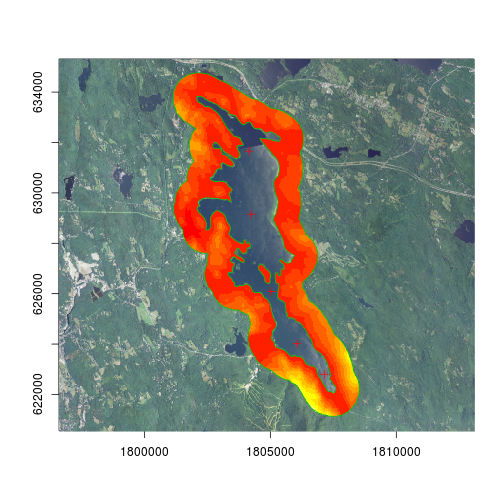
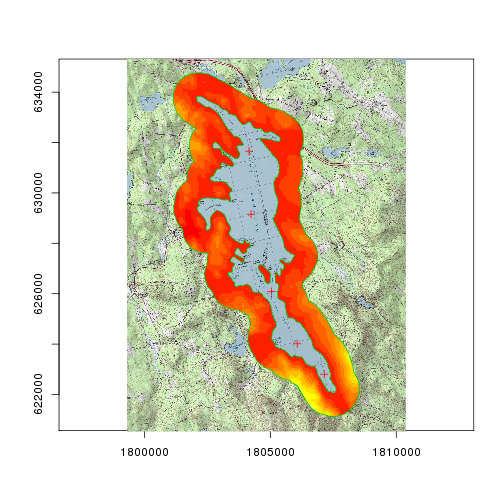
fixed get_basemp exmaple in Readme

diff --git a/README.md b/README.md
@@ -74,25 +74,25 @@ qm<-qmap(elev,samples,buffer,order = c(2,1,3), colors = c("red","red","blue"), f
 
 ![plot of chunk unnamed-chunk-4](figure/unnamed-chunk-4-1.png) 
 
-Basemaps can be added from the USGS' National Map (still VERY experimental and slow)
+Basemaps can be added from the USGS' National Map (still VERY experimental,slow,
+and United States Specific)
 
 
 ```r
-#Get The Basemap
-basem <- get_basemap(qm$map_extent,proj4string(qm$map_data[[1]]),width=1000)
-```
-
-```
-## Error in match.arg(base): 'arg' should be one of "1m_aerial", "topo"
-```
-
-```r
+#Get a Topo Basemap
+basem <- get_basemap(qm,"topo",width=1000)
 qm <- qmap(qm,basemap = basem)
 ```
 
+![plot of chunk unnamed-chunk-5](figure/unnamed-chunk-5-1.png) 
+
+```r
+#Get an Aerial Basemap
+basem <- get_basemap(qm,"1m_aerial",width=1000)
+qm <- qmap(qm,basemap = basem)
 ```
-## Error in qmap(qm, basemap = basem): object 'basem' not found
-```
+
+![plot of chunk unnamed-chunk-5](figure/unnamed-chunk-5-2.png) 
 
 Zooming and panning are accomplished with zi(),ze(),zo(),f(), and p():
 
